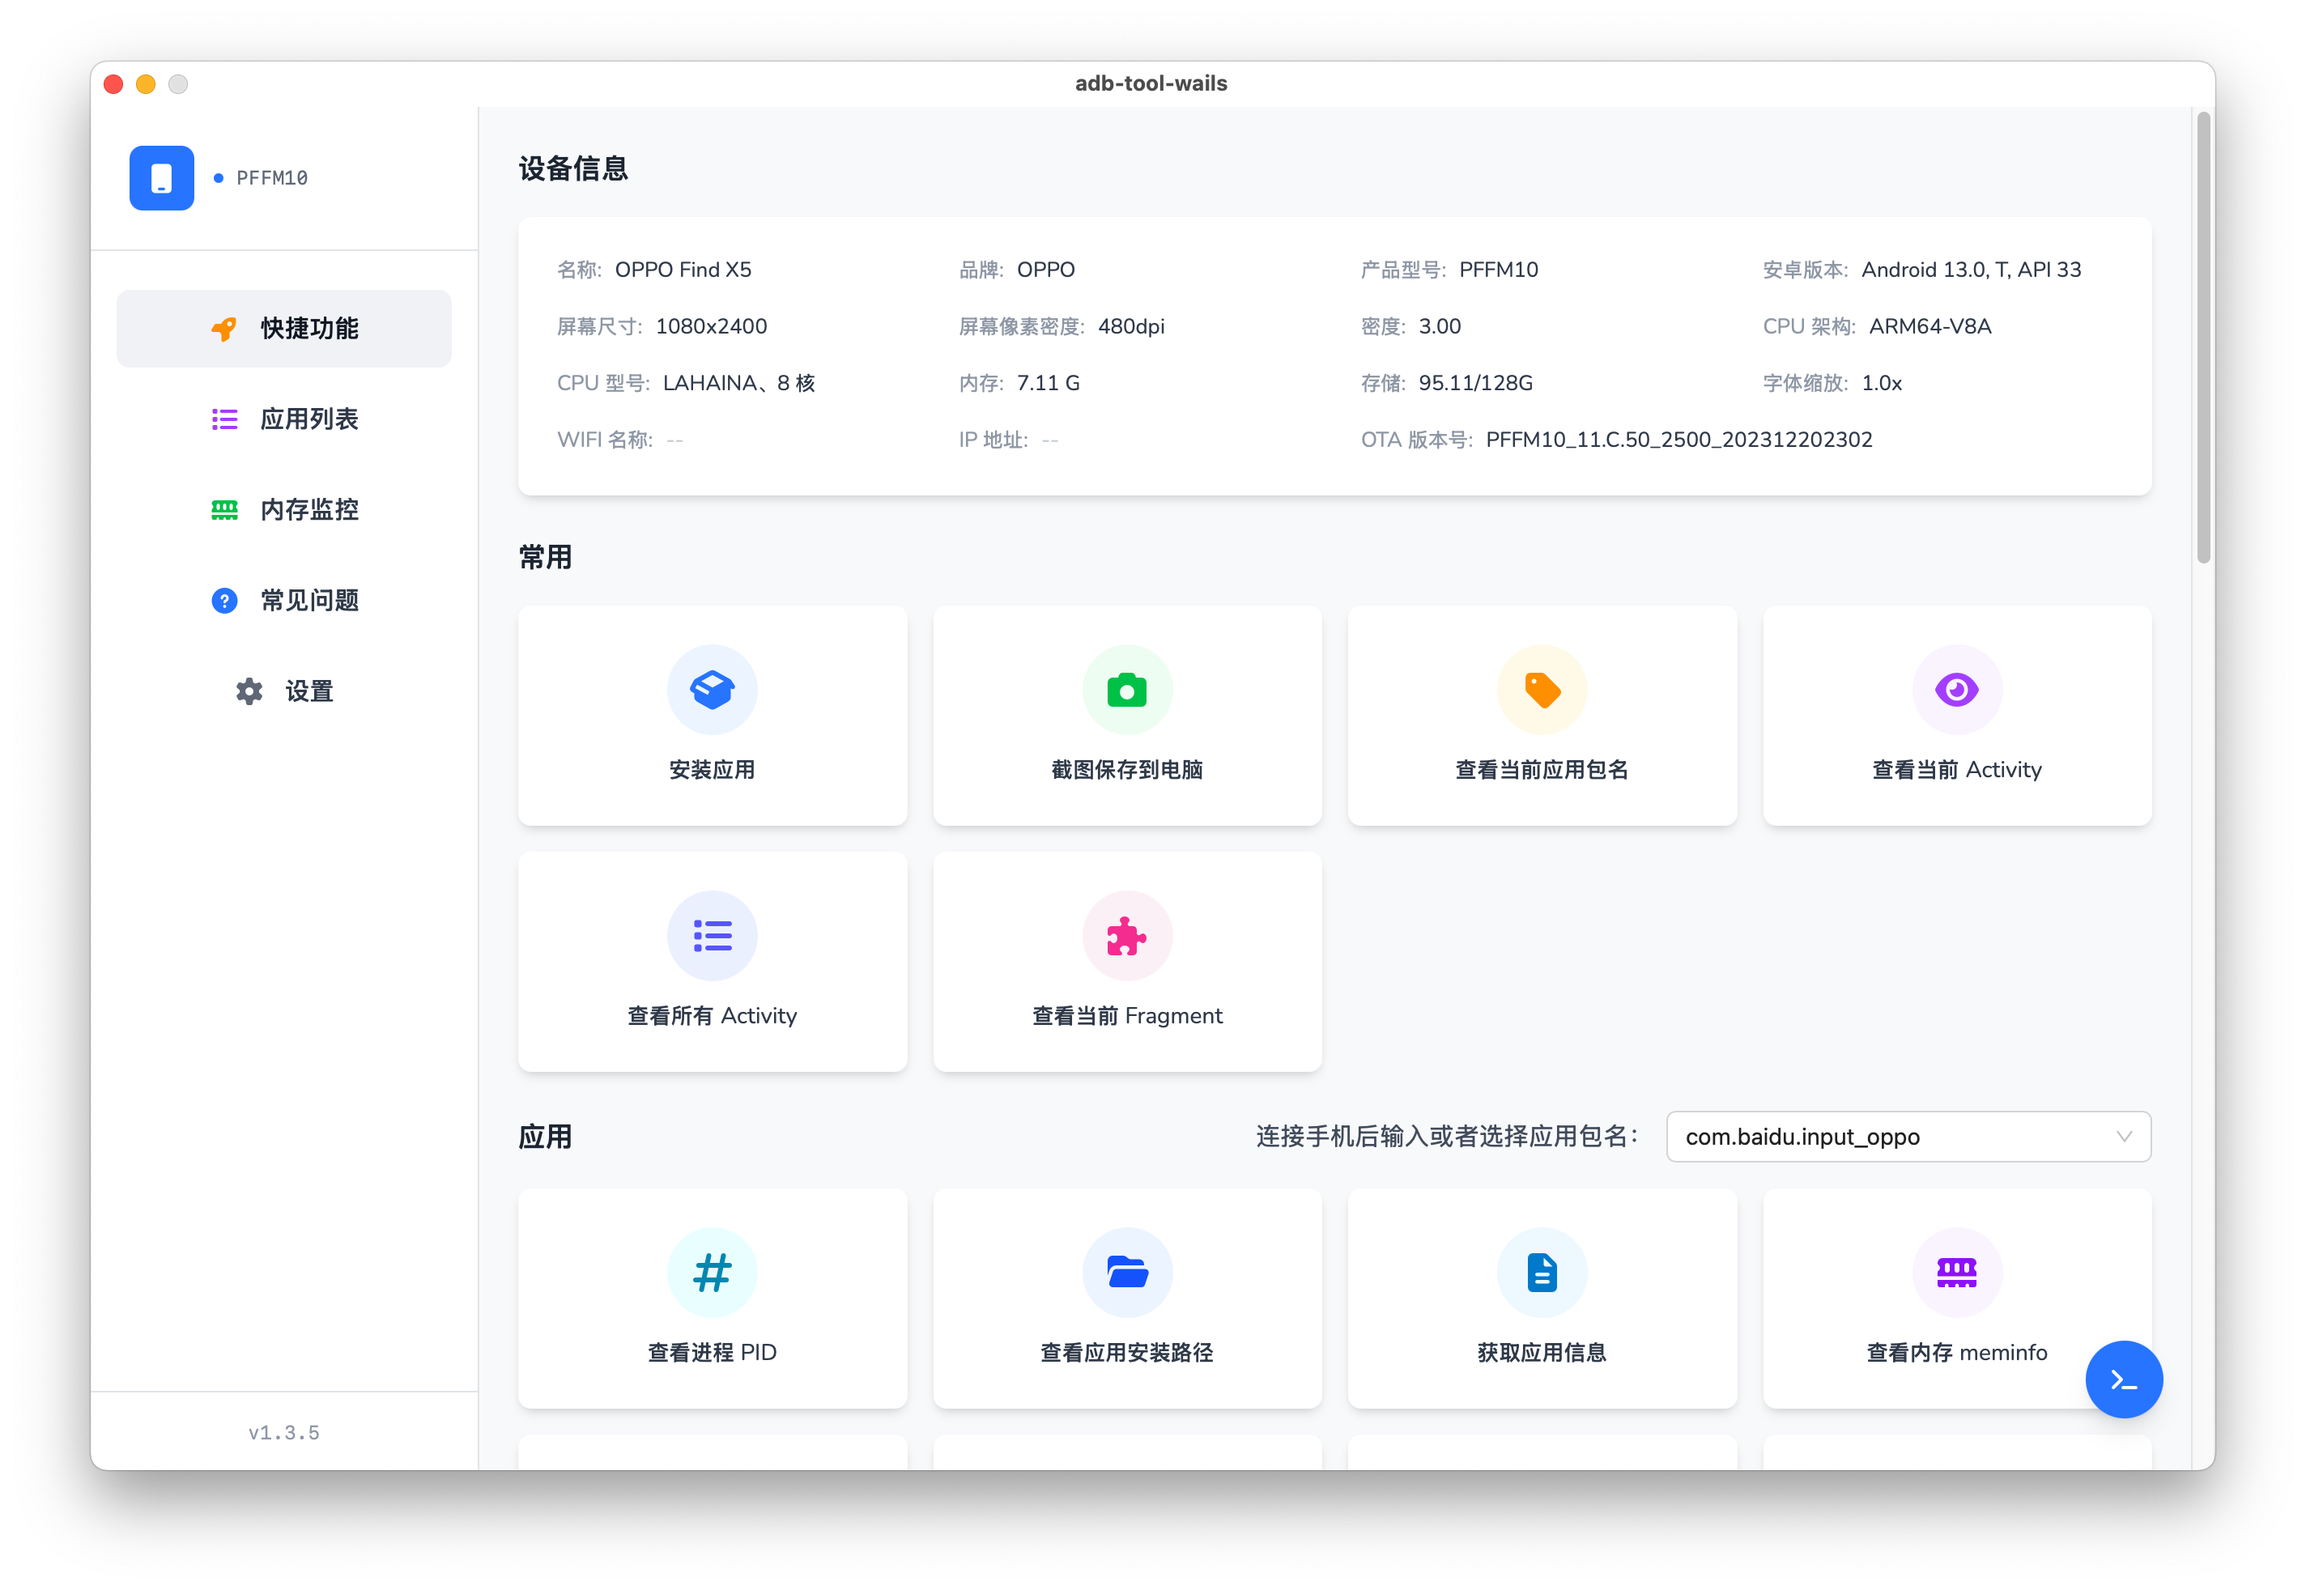
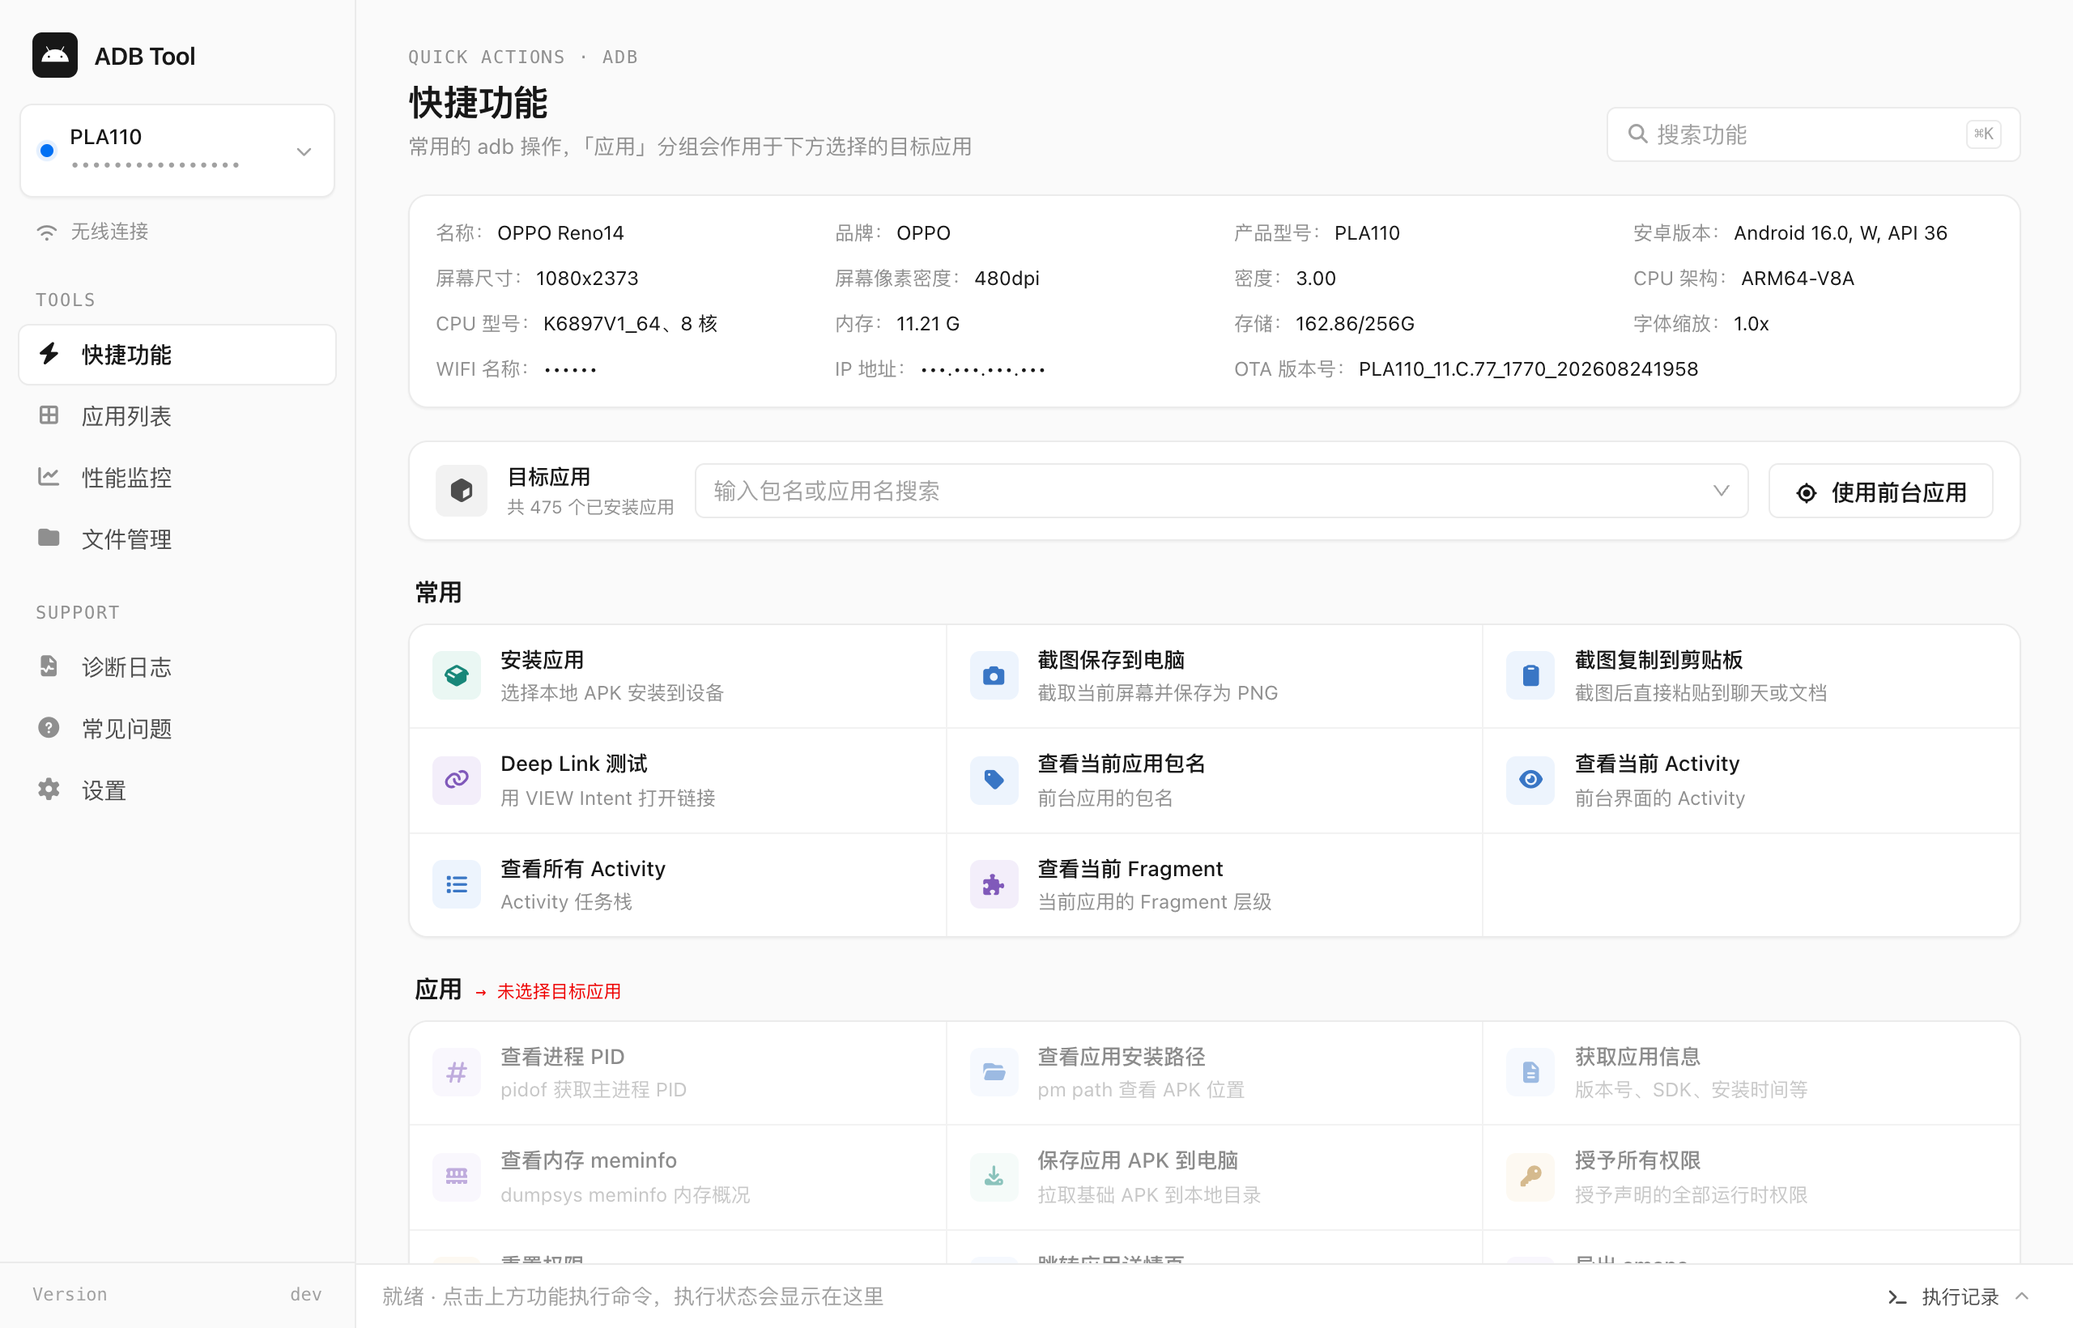
docs: refresh README and screenshots, add MIT license
Replace the v1.3.5 preview with screenshots of the current UI, document
the built-in adb download and source build requirements, and add the
LICENSE file the README badge already pointed to.

diff --git a/README.md b/README.md
@@ -7,6 +7,7 @@
 
 一个现代化的 Android Debug Bridge (ADB) 图形界面工具，让 Android 设备调试与管理变得简单直观。
 
+[![Release](https://img.shields.io/github/v/release/ilpanda/adb-tool-wails)](https://github.com/ilpanda/adb-tool-wails/releases)
 [![License](https://img.shields.io/badge/license-MIT-blue.svg)](LICENSE)
 [![Wails](https://img.shields.io/badge/Wails-v2-red.svg)](https://wails.io)
 [![Go](https://img.shields.io/badge/Go-1.26+-00ADD8.svg)](https://golang.org)
@@ -16,7 +17,7 @@
 
 </div>
 
-![系统设置](imgs/preview.png)
+![快捷功能](imgs/preview.png)
 
 
 ---
@@ -29,8 +30,9 @@
 - **无线调试** - 支持二维码配对、配对码配对、IP 连接，以及将 USB 设备切换为无线调试（适用于 Android 10 及以下）
 
 ### 快捷功能
+- **功能搜索** - 按 `⌘K` / `Ctrl+K` 快速查找功能，执行过程和结果可在底部的执行记录中查看
 - **常用操作** - 安装 APK、截图保存到电脑、截图复制到剪贴板、查看当前 Activity / Fragment 等
-- **应用操作** - 对目标应用执行启动、杀死、重启、清除数据、授予或重置权限、导出 APK、卸载等
+- **应用操作** - 搜索选择目标应用或一键使用前台应用，然后执行启动、杀死、重启、清除数据、授予或重置权限、导出 APK、卸载等
 - **调试导出** - 导出 meminfo、smaps、showmap、hprof、线程信息，查看线程优先级与可运行核
 - **Deep Link 测试** - 用 VIEW Intent 打开链接，显示打开的 Activity 与启动耗时，可限定只由目标应用解析
 - **快捷设置** - GPU 呈现模式、过度绘制、布局边界，以及开发者选项、WLAN、语言等系统设置页
@@ -40,7 +42,9 @@
 - 查看设备上所有已安装的应用（用户应用 / 系统应用），支持按名称或包名搜索
 - 显示版本、SDK、安装与更新时间、APK 路径、签名 SHA256
 - 每个应用可直接启动、进入性能监控、设为快捷功能的目标应用、导出 APK 或卸载
-- 选中设备后在后台预加载，打开页面即可查看
+- 选中设备后在后台预加载，应用较多时分批显示，无需等待全部加载完成
+
+![应用列表](imgs/app-list.png)
 
 ### 性能监控
 - 同时监控包名下的所有进程（主进程与 `:push` 等子进程），无需 root，Release 包可用
@@ -50,15 +54,22 @@
 - **进程事件** - 自动检测进程启动、退出、重启与 ANR，并给出原因（如低内存、崩溃、强制停止），在图表上标注
 - 支持导出 CSV
 
+![性能监控](imgs/perf-monitor.png)
+
 ### 文件管理
 - 浏览设备文件，预览文本与图片，上传、下载、删除，收藏常用目录
 - 拖入文件即可上传到当前目录
 
+![文件管理](imgs/file-manager.png)
+
 ### 其他
+- **内置 ADB** - 未检测到 adb 时自动在后台下载 Google platform-tools，无需手动安装
 - **拖拽安装** - 把 APK 拖进窗口即可安装，版本降级时会提示确认后卸载重装
 - **深色模式** - 跟随系统、浅色、深色三种外观
 - **应用内更新** - 启动时检查 GitHub Releases，在后台下载新版本，重启即可完成更新；会使用系统代理，下载中断时自动重试并续传。macOS 上通过应用内更新安装的新版本不会再触发「无法验证开发者」的提示
 - **诊断日志** - 查看与导出应用自身的运行日志，便于反馈问题
+
+![深色模式](imgs/dark-mode.png)
 
 ---
 ## 开发计划
@@ -73,7 +84,7 @@
 
 ### 前置要求
 
-- **ADB** - 确保系统已安装 Android Debug Bridge
+- **ADB（可选）** - 无需提前安装。启动时如果系统 PATH 和设置中都没有 adb，应用会自动下载 Google platform-tools。也可以自行安装，或在「设置」中指定 adb 路径
     - Windows: [下载 Platform Tools](https://developer.android.com/tools/releases/platform-tools)
     - macOS: `brew install android-platform-tools`
     - Linux: `sudo apt install android-tools-adb`
@@ -90,7 +101,7 @@
 #### 方式 1: 下载预编译版本
 访问 [Releases 页面](https://github.com/ilpanda/adb-tool-wails/releases) 下载适合你系统的版本：
 
-- **Windows**: `adb-tool-windows-amd64-installer.zip`
+- **Windows**: `adb-tool-windows-amd64-installer.zip`（安装版）或 `adb-tool-windows-amd64-portable.zip`（便携版）
 - **macOS**: `adb-tool-macos-universal.tar.gz`
 - **Linux**: `adb-tool-linux-amd64.tar.gz`
 
@@ -112,6 +123,8 @@
 
 
 #### 方式 2: 从源码构建
+需要先安装 Go 1.26+、Node.js 20+ 和 [Wails CLI](https://wails.io/docs/gettingstarted/installation)（v2.10.2）。Linux 还需要安装 `libgtk-3-dev` 和 `libwebkit2gtk-4.0-dev`。
+
 ```bash
 # 克隆仓库
 git clone https://github.com/ilpanda/adb-tool-wails.git
